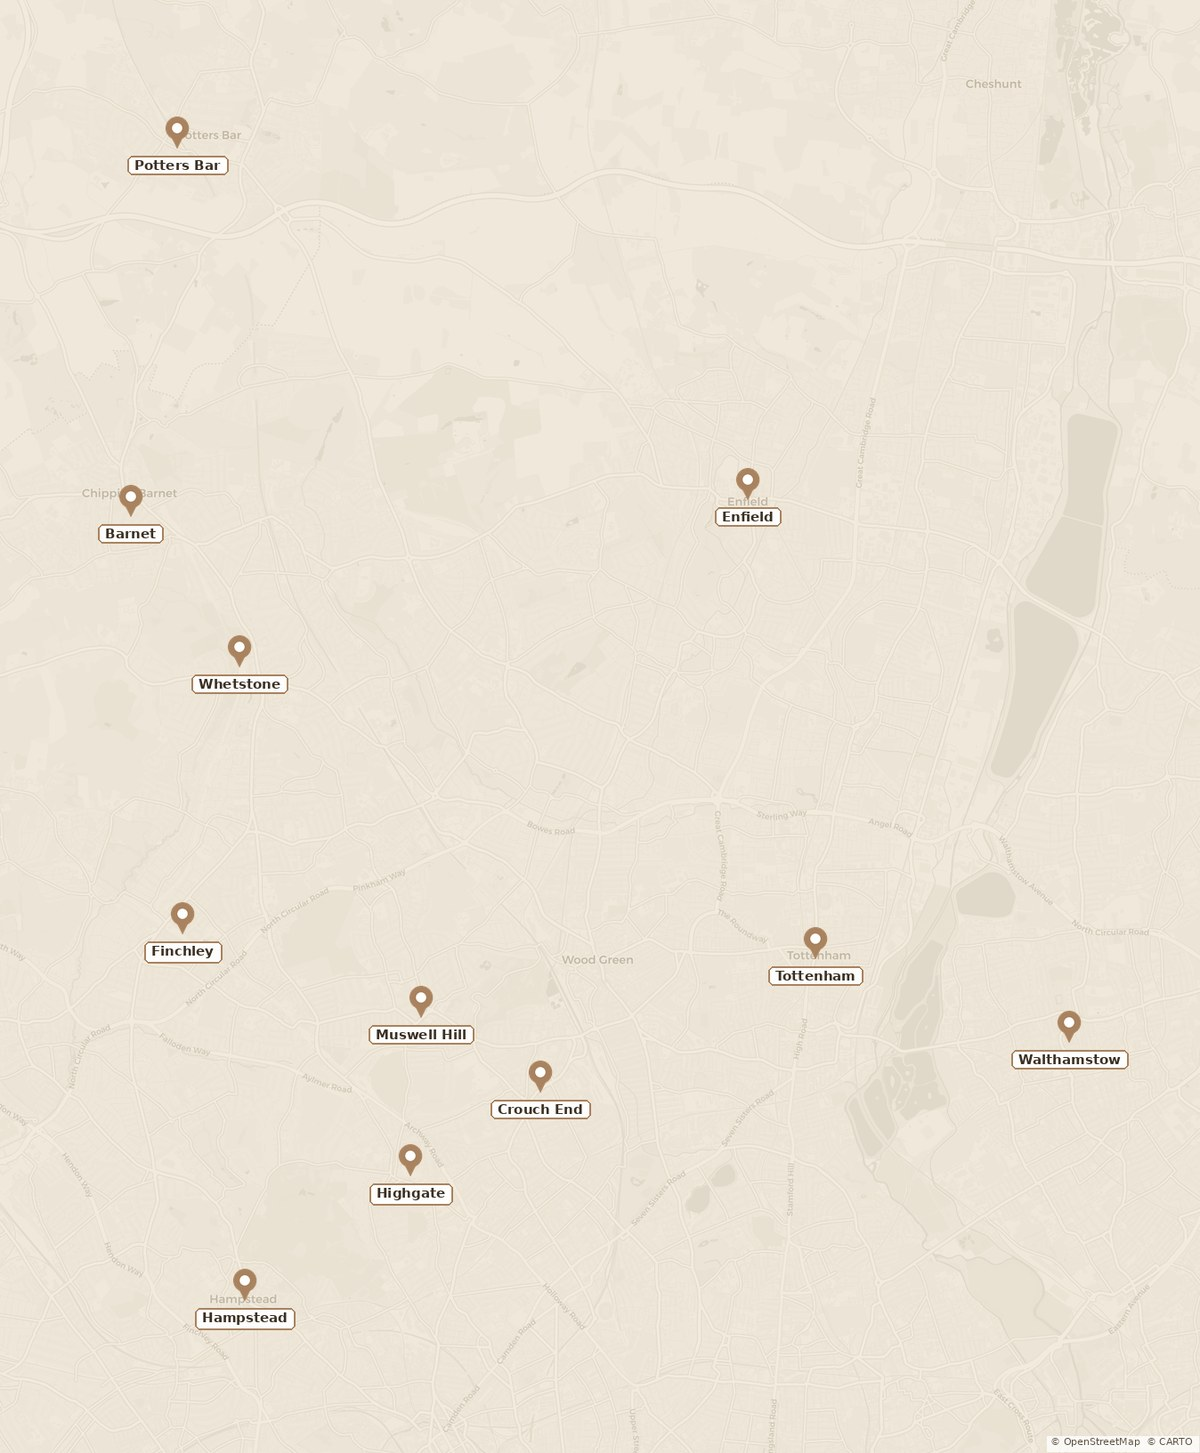
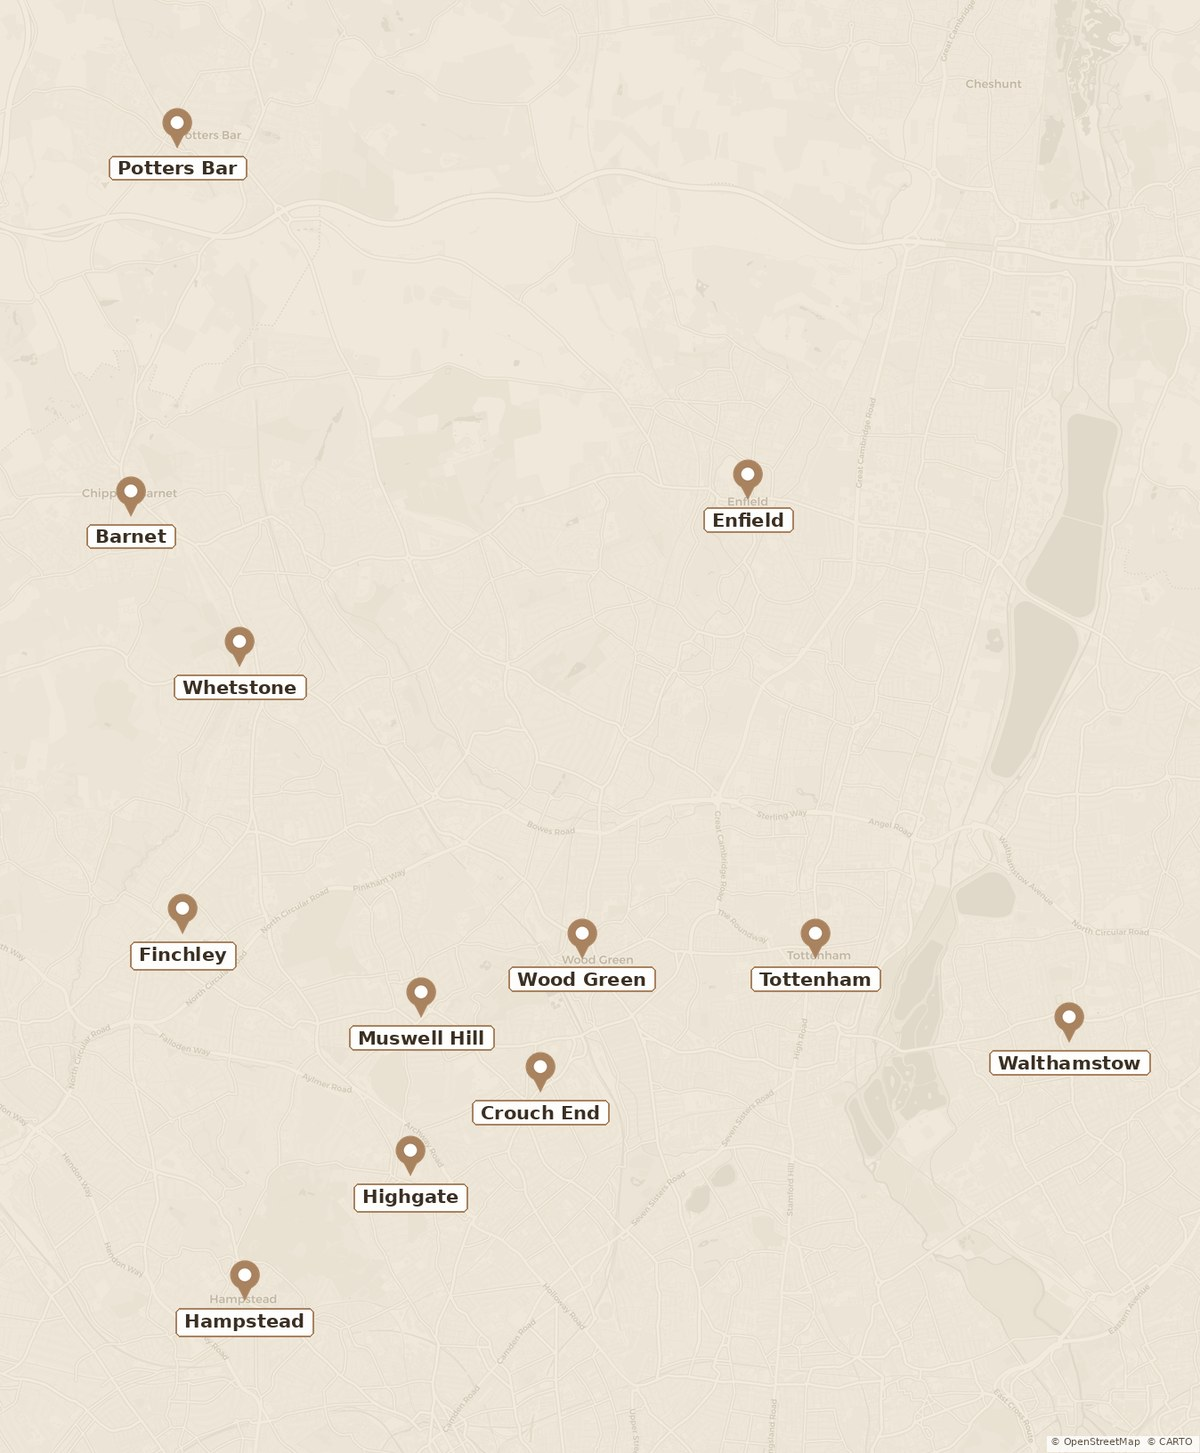
R6: add Wood Green pin; bigger labels; constrain map display to 800px (smaller but readable)

diff --git a/option-d-mix.html b/option-d-mix.html
@@ -92,7 +92,7 @@
   .coverage{background:var(--ink);color:#EFE9DB}
   .coverage h2{color:#fff}
   .coverage p.intro{color:#A9AEBB}
-  .covmap-img{display:block;width:100%;height:auto;border-radius:20px;border:1px solid #3A4150;box-shadow:0 24px 60px rgba(0,0,0,.35)}
+  .covmap-img{display:block;width:100%;max-width:800px;height:auto;margin:0 auto;border-radius:20px;border:1px solid #3A4150;box-shadow:0 24px 60px rgba(0,0,0,.35)}
   .map-caption{margin-top:16px;font-size:.85rem;color:#A9AEBB;font-weight:600}
   .map-caption b{color:var(--beige)}
 